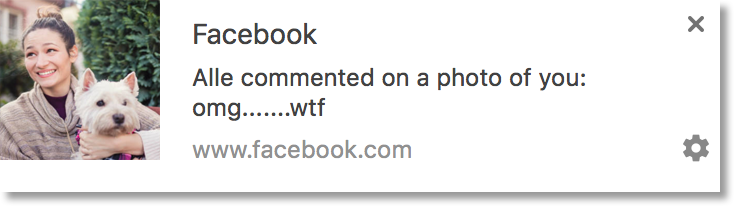
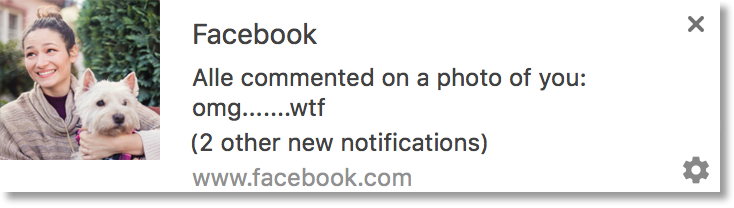
notifications

Changed region(s): [[0.2398, 0.6346, 0.6894, 0.7788], [0.2398, 0.8077, 0.5695, 0.8942], [0.9292, 0.6346, 0.9891, 0.8942]]

diff --git a/assets/js/reader.js b/assets/js/reader.js
@@ -561,6 +561,42 @@ $('.willsmith').mouseenter(function() {
       $('.t27').fadeOut('fast');
     }, 117000);
 
+    //   Fade in .fb7 notifcation
+
+    setTimeout(function () {
+      $('.fb7').fadeIn('fast');
+    }, 117000);
+
+  //   Fade out .fb7 notifcation
+
+    setTimeout(function () {
+      $('.fb7').fadeOut('fast');
+    }, 120000);
+
+    //   Fade in .fb8 notifcation
+
+    setTimeout(function () {
+      $('.fb8').fadeIn('fast');
+    }, 120000);
+
+  //   Fade out .fb8 notifcation
+
+    setTimeout(function () {
+      $('.fb8').fadeOut('fast');
+    }, 123000);
+
+    //   Fade in .t28 notifcation
+
+    setTimeout(function () {
+      $('.t28').fadeIn('fast');
+    }, 123000);
+
+  //   Fade out .t28 notifcation
+
+    setTimeout(function () {
+      $('.t28').fadeOut('fast');
+    }, 126000);
+
     //   Fade in .p1 notifcation at 19second
 
     setTimeout(function () {

diff --git a/reader.html b/reader.html
@@ -260,6 +260,21 @@
         <span class="notif"><strong>Ro Bott</strong><br>
         Uh oh. U better check facebook quick.</span>
     </div>
+
+    <div class="notification__image fb7">
+      <img src="assets/images/fb7.png" width="368px"alt="" />
+    </div>
+
+    <div class="notification__image fb8">
+      <img src="assets/images/fb8.png" width="368px"alt="" />
+    </div>
+
+    <div class="notification t28">
+      <span class="icon">
+        <img src="assets/images/messageicon.png" height="28px" alt="" /></span>
+        <span class="notif">You have 10 new messages.<br>
+        <br></span>
+    </div>
 <!-- popups -->
     <img class="popup p1" src="https://s-media-cache-ak0.pinimg.com/236x/23/2e/8e/232e8e0737387cccf1e926633d072376.jpg" alt="" />
 

diff --git a/assets/css/reader.css b/assets/css/reader.css
@@ -349,6 +349,28 @@ body {
   right: 3px;
   cursor: pointer;
 }
+
+.t27 {
+  display: none;
+}
+
+.fb7 {
+  display: none;
+  position: fixed;
+  top: 75px;
+  right: 3px;
+  cursor: pointer;
+}
+
+.fb8 {
+  display: none;
+  position: fixed;
+  top: 205px;
+  right: 3px;
+  cursor: pointer;
+}
+
+
 /* reader gameover screen when fake links are clicked */
 
 .gameover {
